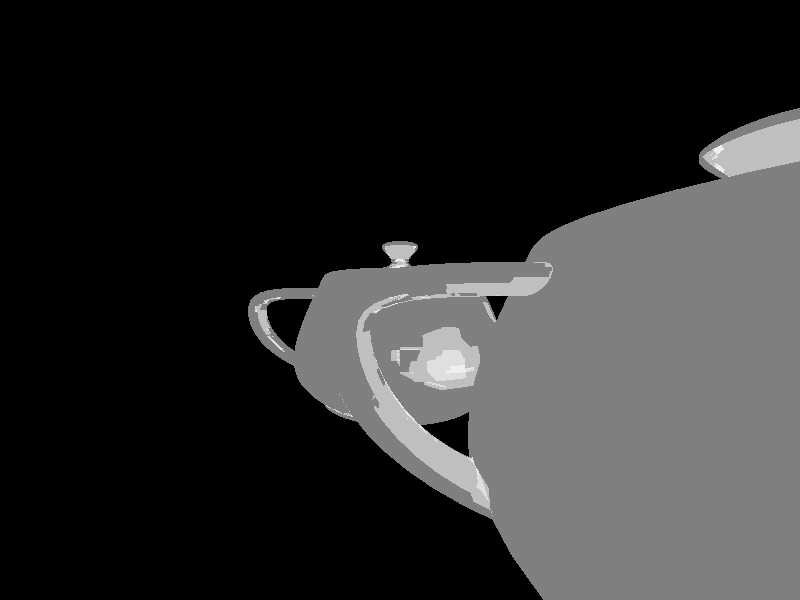
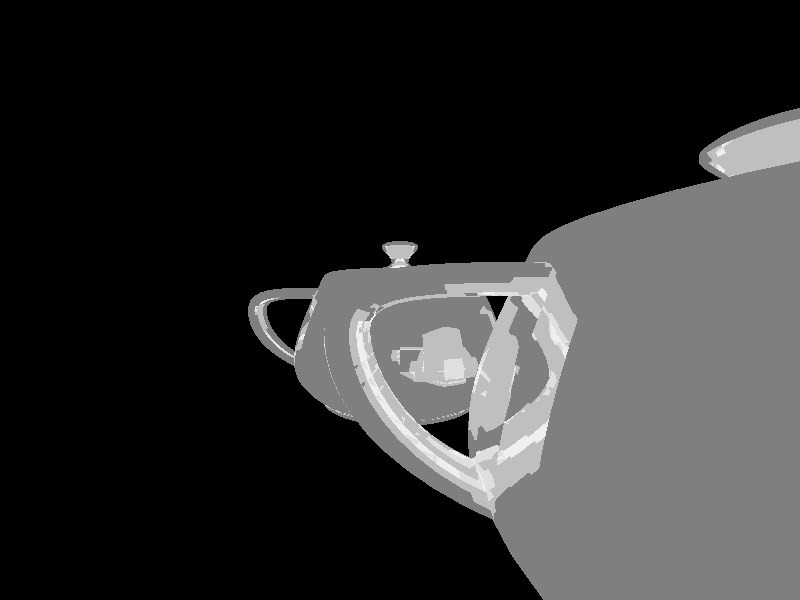
Final code, can pull

diff --git a/RAYTRACING/src/RenderTask.java b/RAYTRACING/src/RenderTask.java
@@ -10,6 +10,8 @@ public class RenderTask implements Runnable {
     private int startY;
     private int endY;
 
+    private static final Vector3 LIGHT_POSITION = new Vector3(10, 10, 10); // Light source position
+
     public RenderTask(Scene scene, Camera camera, BufferedImage image, int width, int height, int startY, int endY) {
         this.scene = scene;
         this.camera = camera;
@@ -60,18 +62,29 @@ public class RenderTask implements Runnable {
         }
 
         if (closestIntersection != null) {
-            // Calculate reflection
+            Vector3 intersectionPoint = closestIntersection.point;
+            Vector3 normal = closestIntersection.normal;
+            Vector3 lightDir = LIGHT_POSITION.subtract(intersectionPoint).normalize();
+
+            // Get soft shadow factor (0 = fully lit, 1 = fully shadowed)
+            double shadowFactor = RayTracer.getShadowFactor(intersectionPoint, LIGHT_POSITION, scene);
+
+            // Compute shading
+            double ambient = 0.1;
+            double diffuse = Math.max(normal.dot(lightDir), 0.0);
+            double shading = ambient + (1.0 - shadowFactor) * diffuse; // Reduce light intensity in shadow
+            shading = Math.min(shading * 255, 255);
+            int shadeColor = (int) shading;
+
+            // Compute reflection
             Vector3 reflectedDirection = reflect(ray.direction, closestIntersection.normal).normalize();
             Ray reflectedRay = new Ray(closestIntersection.point, reflectedDirection);
-
-            // Trace the reflected ray recursively
             Color reflectedColor = traceRay(reflectedRay, scene, depth + 1);
 
-            // Mix original hit color with reflected color (e.g., assume reflective surfaces are white)
-            int r = (int) (0.5 * reflectedColor.getRed() + 0.5 * 255);
-            int g = (int) (0.5 * reflectedColor.getGreen() + 0.5 * 255);
-            int b = (int) (0.5 * reflectedColor.getBlue() + 0.5 * 255);
-
+            // Mix diffuse & reflection
+            int r = (int) (0.5 * reflectedColor.getRed() + 0.5 * shadeColor);
+            int g = (int) (0.5 * reflectedColor.getGreen() + 0.5 * shadeColor);
+            int b = (int) (0.5 * reflectedColor.getBlue() + 0.5 * shadeColor);
             return new Color(Math.min(r, 255), Math.min(g, 255), Math.min(b, 255));
         } else {
             return new Color(0, 0, 0); // Background color
@@ -86,4 +99,3 @@ public class RenderTask implements Runnable {
 
     private static final int MAX_REFLECTION_DEPTH = 3;
 }
-

diff --git a/RAYTRACING/src/RayTracer.java b/RAYTRACING/src/RayTracer.java
@@ -20,17 +20,47 @@ public class RayTracer {
         if (v < 0.0 || u + v > 1.0) {
             return new Intersection(false, 0, null, null);
         }
+
         double t = f * edge2.dot(q);
         if (t > EPSILON) {
-            Vector3 intersectionPoint = new Vector3(
-                    ray.origin.x + ray.direction.x * t,
-                    ray.origin.y + ray.direction.y * t,
-                    ray.origin.z + ray.direction.z * t
-            );
+            Vector3 intersectionPoint = ray.origin.add(ray.direction.multiply(t));
             Vector3 normal = edge1.cross(edge2).normalize();
             return new Intersection(true, t, intersectionPoint, normal);
+        } else {
+            return new Intersection(false, 0, null, null);
         }
-        else
-            return new Intersection(false,0,null,null);
+    }
+
+    public static double getShadowFactor(Vector3 point, Vector3 lightPos, Scene scene) {
+        int shadowSamples = 20; // Number of rays for soft shadow sampling
+        int shadowCount = 0;
+        double lightRadius = 0.3; // Soft shadow radius
+
+        for (int i = 0; i < shadowSamples; i++) {
+            // Generate a random offset for area light effect
+            Vector3 randomOffset = new Vector3(
+                (Math.random() - 0.5) * lightRadius,
+                (Math.random() - 0.5) * lightRadius,
+                (Math.random() - 0.5) * lightRadius
+            );
+            Vector3 sampleLightPos = lightPos.add(randomOffset);
+
+            Vector3 shadowRayDir = sampleLightPos.subtract(point).normalize();
+            Ray shadowRay = new Ray(point.add(shadowRayDir.multiply(0.05)), shadowRayDir); // Offset to prevent self-shadowing
+
+            for (Face face : scene.faces) {
+                Vector3 v0 = scene.vertices.get(face.vertices[0]);
+                Vector3 v1 = scene.vertices.get(face.vertices[1]);
+                Vector3 v2 = scene.vertices.get(face.vertices[2]);
+
+                Intersection shadowIntersection = intersectRayTriangle(shadowRay, v0, v1, v2);
+                if (shadowIntersection.hit) {
+                    shadowCount++;
+                    break; // Stop checking this sample if shadow is found
+                }
+            }
+        }
+
+        return (double) shadowCount / shadowSamples; // 0 = no shadow, 1 = full shadow
     }
 }

diff --git a/RAYTRACING/src/ThreadedRayTracing.java b/RAYTRACING/src/ThreadedRayTracing.java
@@ -17,7 +17,8 @@ public class ThreadedRayTracing {
         adjustFaceIndices(secondTeapot, originalVertexCount);
         scene.vertices.addAll(secondTeapot.vertices);
         scene.faces.addAll(secondTeapot.faces);
-        Camera camera = new Camera(new Vector3(0, 2, 6), new Vector3(0, 0, -1), 100);
+        // changed postion of camera
+        Camera camera = new Camera(new Vector3(0, 3, 10), new Vector3(0, -0.2, -1), 100);
         int width = 800;
         int height = 600;
         BufferedImage image = new BufferedImage(width, height, BufferedImage.TYPE_INT_RGB);

diff --git a/RAYTRACING/src/Vector3.java b/RAYTRACING/src/Vector3.java
@@ -28,7 +28,11 @@ public class Vector3 {
     }
 
     Vector3 normalize() {
-        double length = Math.sqrt(x * y + y * y + z * z);
+        double length = Math.sqrt(x * x + y * y + z * z);
         return new Vector3(x / length, y / length, z / length);
+    }
+    //Added code
+    Vector3 add(Vector3 v) {
+    return new Vector3(this.x + v.x, this.y + v.y, this.z + v.z);
     }
 }
